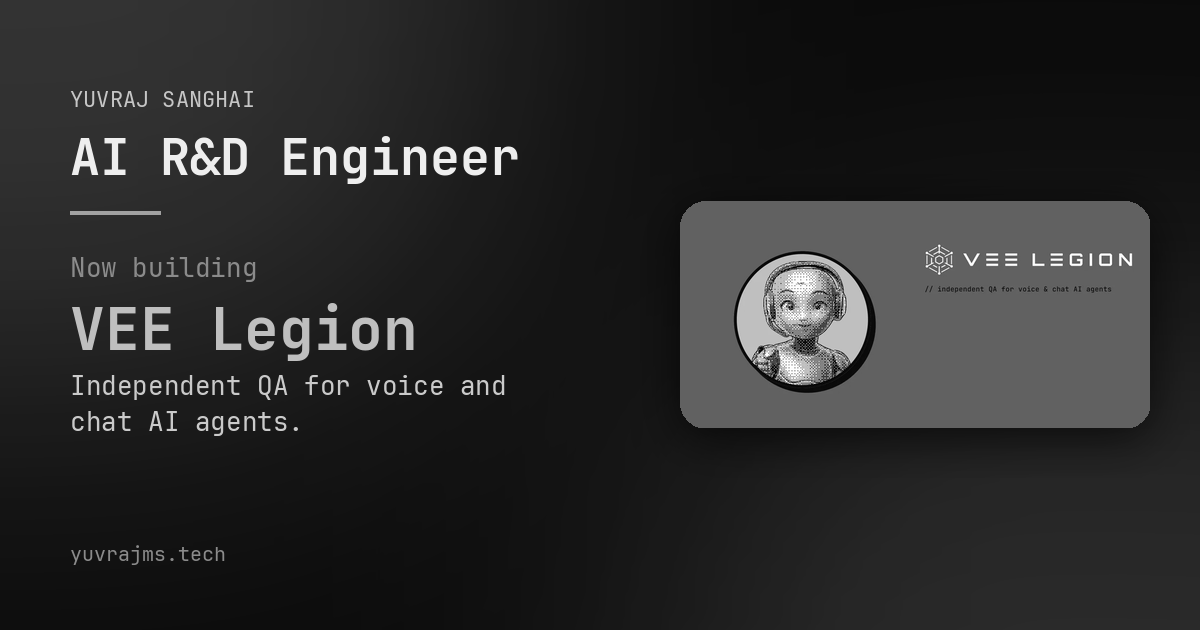
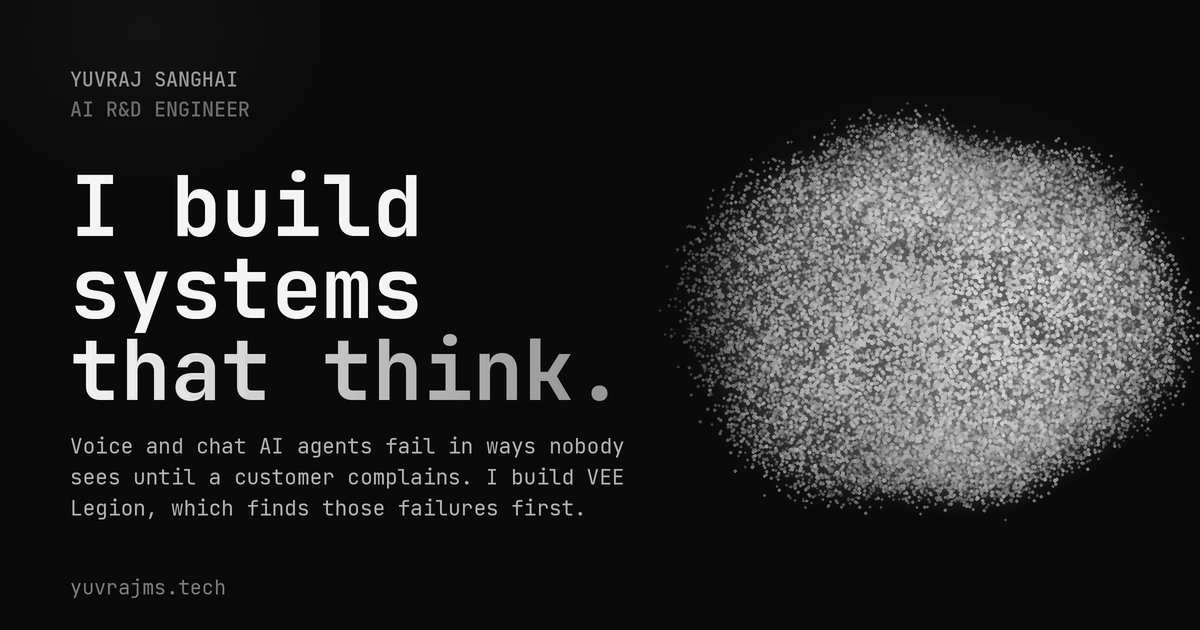
Neutral background and new social preview image (#40)
Neutral page background; new 163 KB social preview with the hero line and a particle cloud.

diff --git a/app/layout.tsx b/app/layout.tsx
@@ -55,7 +55,7 @@ export default function RootLayout({
       className={`${jetbrainsMono.variable} ${inter.variable} dark`}
       style={{
         background:
-          "radial-gradient(ellipse at 18% 12%, rgba(230,230,230,0.08), transparent 34%), radial-gradient(ellipse at 82% 36%, rgba(172,172,172,0.07), transparent 38%), rgb(8 12 18)",
+          "radial-gradient(ellipse at 18% 12%, rgba(230,230,230,0.08), transparent 34%), radial-gradient(ellipse at 82% 36%, rgba(172,172,172,0.07), transparent 38%), rgb(10 10 11)",
       }}
     >
       <head>
